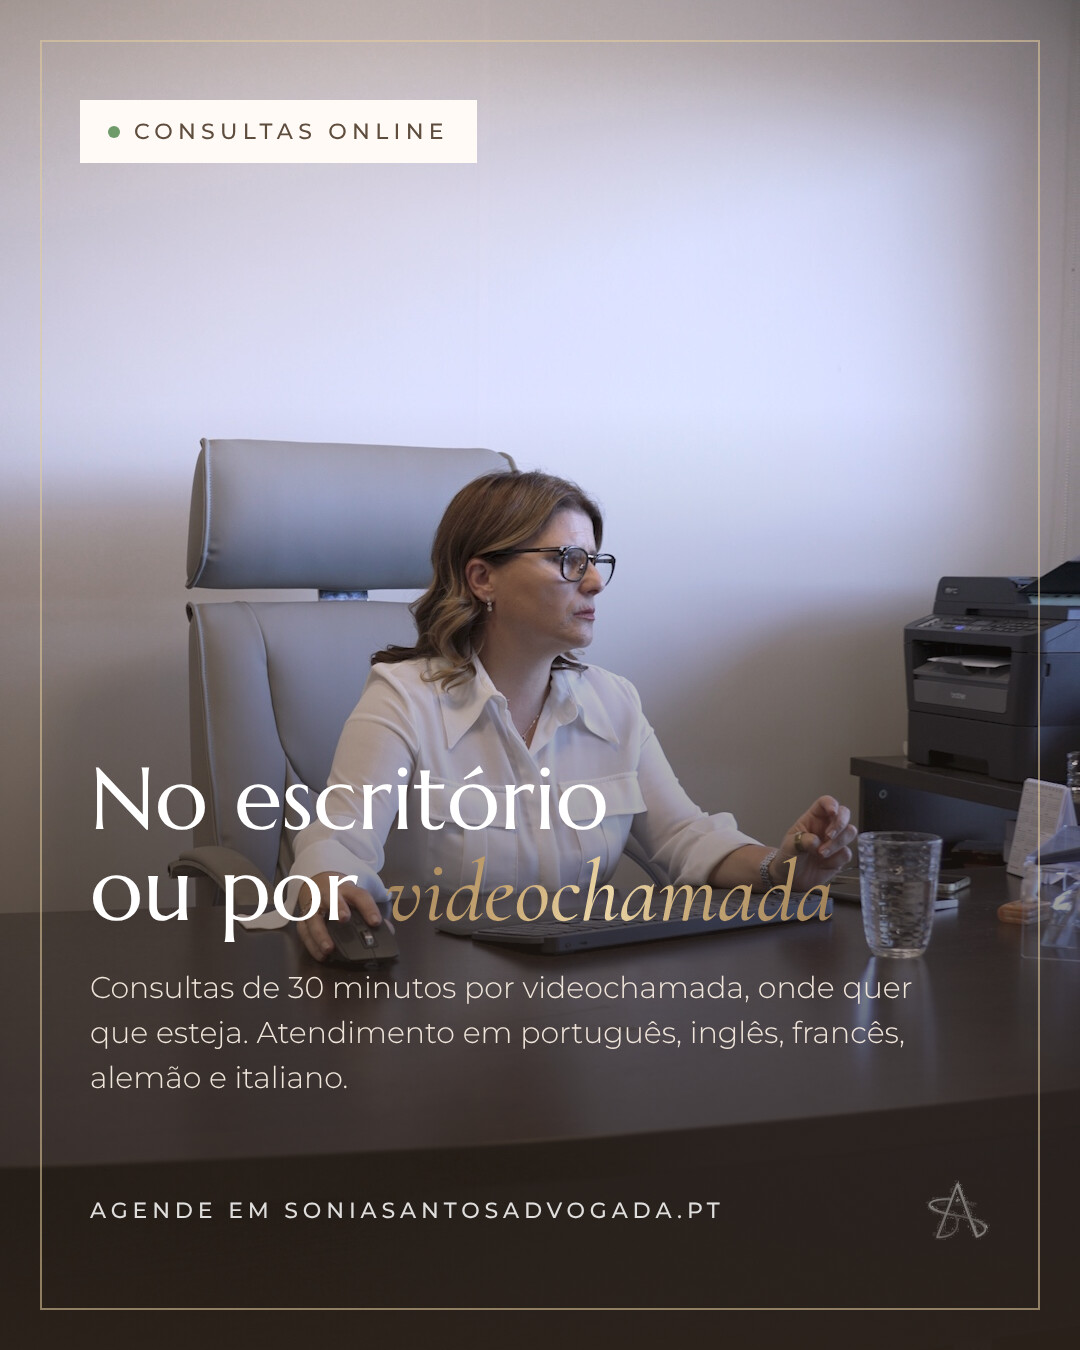
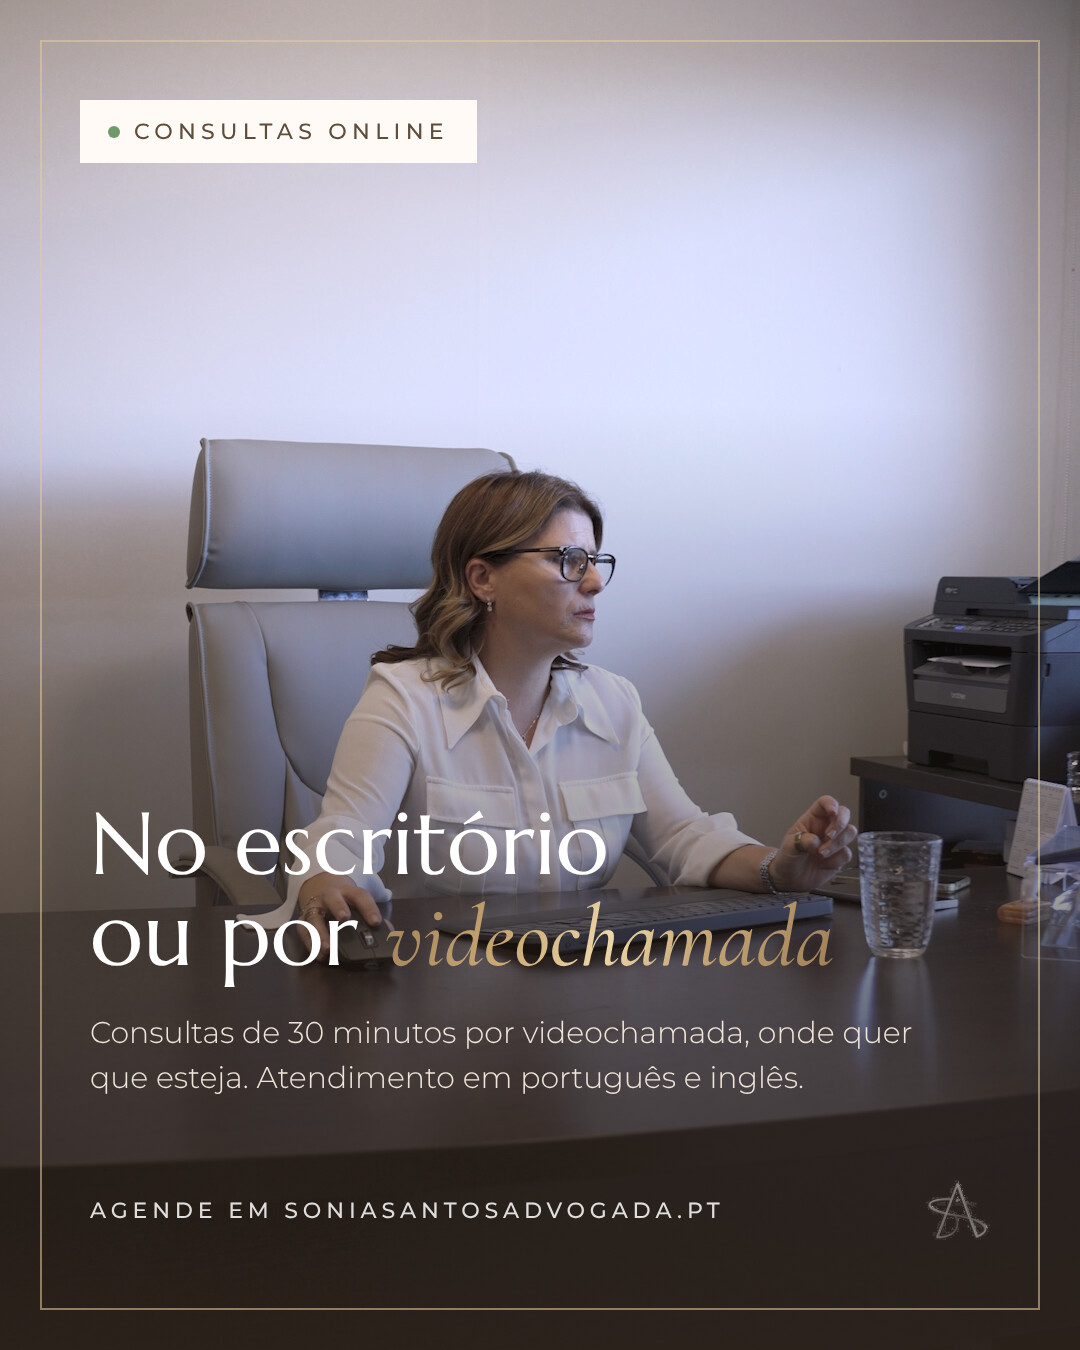
Atendimento só em PT e EN (site, /consulta, dados estruturados, posts e estratégia)
Claude-Session: https://claude.ai/code/session_01Ro4XVLwoq6dQxs5ZSBP7QT

Changed region(s): [[0.0611, 0.56, 0.825, 0.8089]]

diff --git a/index.html b/index.html
@@ -24,7 +24,7 @@
   <link rel="icon" href="img/monograma.png">
   <link rel="stylesheet" href="styles.css">
   <script type="application/ld+json">
-  {"@context": "https://schema.org", "@graph": [{"@type": ["LegalService", "Attorney"], "@id": "https://soniasantosadvogada.pt/#escritorio", "name": "Sónia Alexandra Santos — Advogada, RL", "url": "https://soniasantosadvogada.pt/", "description": "Advogada desde 2005 em Mozelos, Santa Maria da Feira. Advocacia preventiva para famílias e empresas: heranças, testamentos, divórcios, contratos e atos notariais.", "slogan": "O melhor processo é aquele que nunca chega a tribunal.", "image": "https://soniasantosadvogada.pt/img/partilha.jpg", "logo": "https://soniasantosadvogada.pt/img/logo.png", "foundingDate": "2005", "address": {"@type": "PostalAddress", "streetAddress": "Rua Dr. Amorim, Ed. Casa do Povo, Loja G", "postalCode": "4535-211", "addressLocality": "Mozelos", "addressRegion": "Santa Maria da Feira", "addressCountry": "PT"}, "areaServed": [{"@type": "City", "name": "Santa Maria da Feira"}, {"@type": "Country", "name": "Portugal"}], "availableLanguage": ["pt", "en", "fr", "de", "it"], "knowsAbout": ["Advocacia preventiva", "Direito da Família", "Sucessões e heranças", "Partilhas", "Testamentos", "Divórcio", "Responsabilidades parentais", "Atos notariais", "Procurações", "Advocacia de empresa", "Contratos"], "founder": {"@id": "https://soniasantosadvogada.pt/#sonia"}}, {"@type": "Person", "@id": "https://soniasantosadvogada.pt/#sonia", "name": "Sónia Alexandra Santos", "jobTitle": "Advogada", "worksFor": {"@id": "https://soniasantosadvogada.pt/#escritorio"}, "image": "https://soniasantosadvogada.pt/img/sobre.jpg"}, {"@type": "WebSite", "@id": "https://soniasantosadvogada.pt/#site", "url": "https://soniasantosadvogada.pt/", "name": "Sónia Alexandra Santos — Advogada", "inLanguage": "pt-PT"}, {"@type": "FAQPage", "mainEntity": [{"@type": "Question", "name": "O que é advocacia preventiva?", "acceptedAnswer": {"@type": "Answer", "text": "É aconselhamento jurídico antes de o problema surgir: rever um contrato antes de o assinar, planear uma partilha ou preparar um testamento a tempo. Evita litígios, custos e desgaste."}}, {"@type": "Question", "name": "Como funciona a consulta online?", "acceptedAnswer": {"@type": "Answer", "text": "Escolhe o dia e a hora, paga 30 € e recebe por email o link da videochamada. No dia, basta abrir o link no telemóvel ou no computador."}}, {"@type": "Question", "name": "Que documentos devo ter à mão?", "acceptedAnswer": {"@type": "Answer", "text": "O seu documento de identificação e os documentos relacionados com o assunto. Se for útil, pedimos-lhe que os envie antes da consulta."}}, {"@type": "Question", "name": "A informação que partilho é confidencial?", "acceptedAnswer": {"@type": "Answer", "text": "Sim. Tudo o que nos transmite está protegido pelo sigilo profissional do advogado."}}, {"@type": "Question", "name": "Posso ser atendido no escritório?", "acceptedAnswer": {"@type": "Answer", "text": "Sim. Se preferir uma reunião presencial ou precisar de um ato notarial, marque pelo telefone, WhatsApp ou formulário de contacto."}}]}]}
+  {"@context": "https://schema.org", "@graph": [{"@type": ["LegalService", "Attorney"], "@id": "https://soniasantosadvogada.pt/#escritorio", "name": "Sónia Alexandra Santos — Advogada, RL", "url": "https://soniasantosadvogada.pt/", "description": "Advogada desde 2005 em Mozelos, Santa Maria da Feira. Advocacia preventiva para famílias e empresas: heranças, testamentos, divórcios, contratos e atos notariais.", "slogan": "O melhor processo é aquele que nunca chega a tribunal.", "image": "https://soniasantosadvogada.pt/img/partilha.jpg", "logo": "https://soniasantosadvogada.pt/img/logo.png", "foundingDate": "2005", "address": {"@type": "PostalAddress", "streetAddress": "Rua Dr. Amorim, Ed. Casa do Povo, Loja G", "postalCode": "4535-211", "addressLocality": "Mozelos", "addressRegion": "Santa Maria da Feira", "addressCountry": "PT"}, "areaServed": [{"@type": "City", "name": "Santa Maria da Feira"}, {"@type": "Country", "name": "Portugal"}], "availableLanguage": ["pt", "en"], "knowsAbout": ["Advocacia preventiva", "Direito da Família", "Sucessões e heranças", "Partilhas", "Testamentos", "Divórcio", "Responsabilidades parentais", "Atos notariais", "Procurações", "Advocacia de empresa", "Contratos"], "founder": {"@id": "https://soniasantosadvogada.pt/#sonia"}}, {"@type": "Person", "@id": "https://soniasantosadvogada.pt/#sonia", "name": "Sónia Alexandra Santos", "jobTitle": "Advogada", "worksFor": {"@id": "https://soniasantosadvogada.pt/#escritorio"}, "image": "https://soniasantosadvogada.pt/img/sobre.jpg"}, {"@type": "WebSite", "@id": "https://soniasantosadvogada.pt/#site", "url": "https://soniasantosadvogada.pt/", "name": "Sónia Alexandra Santos — Advogada", "inLanguage": "pt-PT"}, {"@type": "FAQPage", "mainEntity": [{"@type": "Question", "name": "O que é advocacia preventiva?", "acceptedAnswer": {"@type": "Answer", "text": "É aconselhamento jurídico antes de o problema surgir: rever um contrato antes de o assinar, planear uma partilha ou preparar um testamento a tempo. Evita litígios, custos e desgaste."}}, {"@type": "Question", "name": "Como funciona a consulta online?", "acceptedAnswer": {"@type": "Answer", "text": "Escolhe o dia e a hora, paga 30 € e recebe por email o link da videochamada. No dia, basta abrir o link no telemóvel ou no computador."}}, {"@type": "Question", "name": "Que documentos devo ter à mão?", "acceptedAnswer": {"@type": "Answer", "text": "O seu documento de identificação e os documentos relacionados com o assunto. Se for útil, pedimos-lhe que os envie antes da consulta."}}, {"@type": "Question", "name": "A informação que partilho é confidencial?", "acceptedAnswer": {"@type": "Answer", "text": "Sim. Tudo o que nos transmite está protegido pelo sigilo profissional do advogado."}}, {"@type": "Question", "name": "Posso ser atendido no escritório?", "acceptedAnswer": {"@type": "Answer", "text": "Sim. Se preferir uma reunião presencial ou precisar de um ato notarial, marque pelo telefone, WhatsApp ou formulário de contacto."}}]}]}
   </script>
 </head>
 <body>
@@ -154,7 +154,7 @@
           <h2 data-reveal data-i18n="online.titulo">Consulta jurídica online: <em class="ouro-texto">perceba a sua situação</em></h2>
           <p class="lead" data-reveal data-i18n="online.lead">Numa videochamada, ouvimos a sua situação, explicamos os seus direitos e indicamos os caminhos possíveis, sem precisar de se deslocar ao escritório.</p>
           <p class="detalhe" data-reveal><span data-i18n="online.preco">Videochamada de 30 minutos</span></p>
-          <p class="linguas" data-reveal><span data-i18n="online.linguas">Atendimento em</span> <b>PT · EN · FR · DE · IT</b></p>
+          <p class="linguas" data-reveal><span data-i18n="online.linguas">Atendimento em</span> <b>PT · EN</b></p>
           <ul class="inclui">
             <li data-reveal>
               <svg viewBox="0 0 24 24" fill="none" stroke="currentColor" stroke-width="1.4" aria-hidden="true"><rect x="2.5" y="6" width="13" height="12" rx="1.5"/><path d="M15.5 10.5l6-3.5v10l-6-3.5"/></svg>

diff --git a/estrategia/index.html b/estrategia/index.html
@@ -254,7 +254,7 @@ footer { padding-block: 40px; text-align: center; font-size: .78rem; color: var(
         <li class="q" data-id="reunioes-0" data-grupo="reunioes"><label class="q__chk"><input type="checkbox" id="reunioes-0"><span></span></label><div class="q__corpo"><label for="reunioes-0-n" class="q__txt">Plataforma: Google Meet, Zoom, WhatsApp vídeo ou Teams?</label><textarea id="reunioes-0-n" rows="1" placeholder="Resposta / notas"></textarea></div></li>
         <li class="q" data-id="reunioes-1" data-grupo="reunioes"><label class="q__chk"><input type="checkbox" id="reunioes-1"><span></span></label><div class="q__corpo"><label for="reunioes-1-n" class="q__txt">Duração: 30 minutos chega? Precisa de outro formato (ex.: 60 min)?</label><textarea id="reunioes-1-n" rows="1" placeholder="Resposta / notas"></textarea></div></li>
         <li class="q" data-id="reunioes-2" data-grupo="reunioes"><label class="q__chk"><input type="checkbox" id="reunioes-2"><span></span></label><div class="q__corpo"><label for="reunioes-2-n" class="q__txt">Pede documentos antes da consulta? Por email ou outro canal?</label><textarea id="reunioes-2-n" rows="1" placeholder="Resposta / notas"></textarea></div></li>
-        <li class="q" data-id="reunioes-3" data-grupo="reunioes"><label class="q__chk"><input type="checkbox" id="reunioes-3"><span></span></label><div class="q__corpo"><label for="reunioes-3-n" class="q__txt">Em que línguas atende de facto (PT, EN, FR, DE, IT)?</label><textarea id="reunioes-3-n" rows="1" placeholder="Resposta / notas"></textarea></div></li>
+        <li class="q" data-id="reunioes-3" data-grupo="reunioes"><label class="q__chk"><input type="checkbox" id="reunioes-3"><span></span></label><div class="q__corpo"><label for="reunioes-3-n" class="q__txt">Atendimento em PT e EN: alargar a outras línguas no futuro?</label><textarea id="reunioes-3-n" rows="1" placeholder="Resposta / notas"></textarea></div></li>
       </ul></details>
       <details class="grupo" open><summary><span>Contactos e dados do site</span><small data-grupo="dados"></small></summary><ul>
         <li class="q" data-id="dados-0" data-grupo="dados"><label class="q__chk"><input type="checkbox" id="dados-0"><span></span></label><div class="q__corpo"><label for="dados-0-n" class="q__txt">Telefone fixo e/ou telemóvel a mostrar</label><textarea id="dados-0-n" rows="1" placeholder="Resposta / notas"></textarea></div></li>
@@ -463,7 +463,7 @@ Já tinha pensado nisto? Partilhe com alguém a quem isto possa interessar.`,
   { n: '08', titulo: 'Para quem vive fora', tema: 'Situações', imgs: ['08-vive-fora'],
     legenda: `Vive fora de Portugal e tem assuntos por resolver cá?
 
-Heranças, partilhas, procurações ou registos podem começar com uma consulta por videochamada, em português, inglês, francês, alemão ou italiano.
+Heranças, partilhas, procurações ou registos podem começar com uma consulta por videochamada, em português ou inglês.
 
 Envie este post a um familiar ou amigo que viva no estrangeiro.`,
     tags: TAGS_BASE + ' #emigrantes #portuguesesnomundo #consultaonline' },
@@ -500,7 +500,7 @@ Em todos eles, analisar antes costuma custar menos tempo e menos dinheiro do que
   { n: 'L4', titulo: 'Apresentação', img: 'L4-apresentacao',
     legenda: `Sou advogada desde 2005, com escritório em Mozelos, Santa Maria da Feira.
 
-Trabalho sobretudo em advocacia preventiva, advocacia de empresa, Direito da Família e Sucessões e Atos Notariais. Também dou consultas por videochamada, em português, inglês, francês, alemão e italiano.
+Trabalho sobretudo em advocacia preventiva, advocacia de empresa, Direito da Família e Sucessões e Atos Notariais. Também dou consultas por videochamada, em português e inglês.
 
 Vou partilhar aqui dicas práticas para ajudar a evitar problemas jurídicos antes de eles surgirem.`,
     tags: '#advogada #advocacia #santamariadafeira' },

diff --git a/consulta/index.html b/consulta/index.html
@@ -185,7 +185,7 @@
           <p>Advogada desde 2005, com a carreira construída na advocacia preventiva: ajudar pessoas e famílias a tomar as decisões certas antes de os problemas surgirem.</p>
           <ul class="lp-factos">
             <li><b data-anos>20+</b><span>anos de advocacia</span></li>
-            <li><b>5</b><span>idiomas de atendimento</span></li>
+            <li><b>PT · EN</b><span>atendimento em português e inglês</span></li>
           </ul>
         </div>
       </div>
@@ -257,7 +257,7 @@
         <div class="faq__lista lp-faq">
           <details><summary>O que acontece na primeira consulta?</summary><p>Ouvimos a sua situação, explicamos os seus direitos e as opções possíveis, com prazos e custos. Só avança se quiser.</p></details>
           <details><summary>A informação que partilho é confidencial?</summary><p>Sim. Tudo o que nos transmite está protegido pelo segredo profissional do advogado.</p></details>
-          <details><summary>Vivo fora de Portugal. Posso ser atendido?</summary><p>Sim. A consulta pode ser por videochamada, em português, inglês, francês, alemão ou italiano.</p></details>
+          <details><summary>Vivo fora de Portugal. Posso ser atendido?</summary><p>Sim. A consulta pode ser por videochamada, em português ou inglês.</p></details>
           <details><summary>Onde fica o escritório?</summary><p>Rua Dr. Amorim, Ed. Casa do Povo, Loja G, 4535-211 Mozelos, Santa Maria da Feira. <a href="https://www.google.com/maps/search/?api=1&amp;query=Rua+Dr.+Amorim%2C+Ed.+Casa+do+Povo%2C+4535-211+Mozelos" target="_blank" rel="noopener">Ver no mapa</a>.</p></details>
         </div>
       </div>
